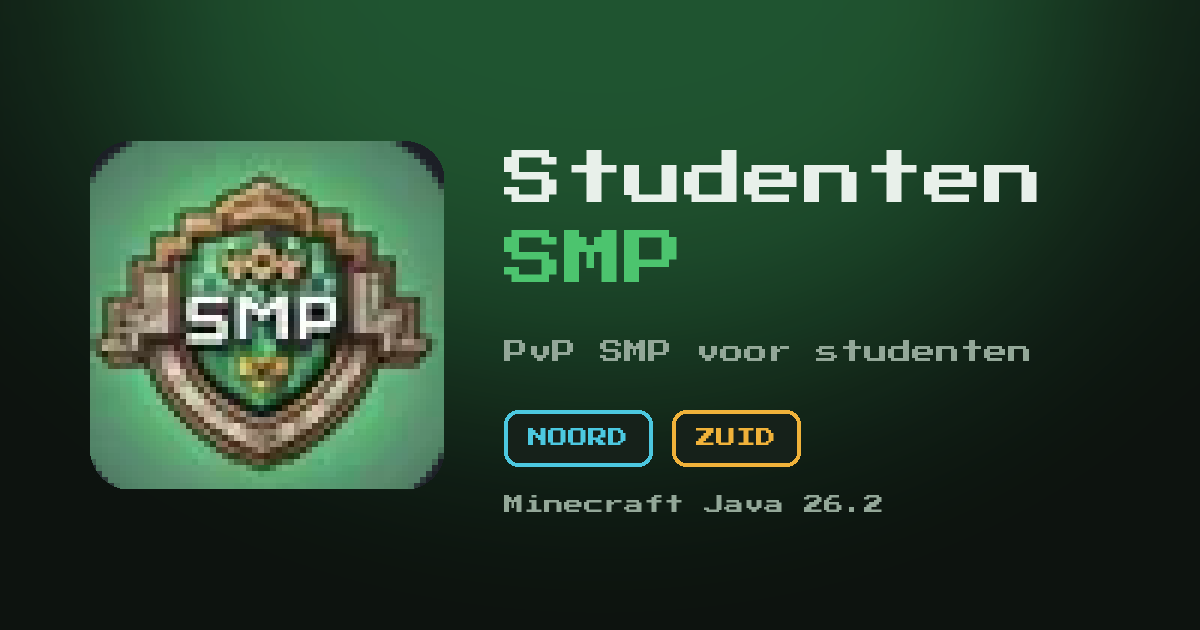
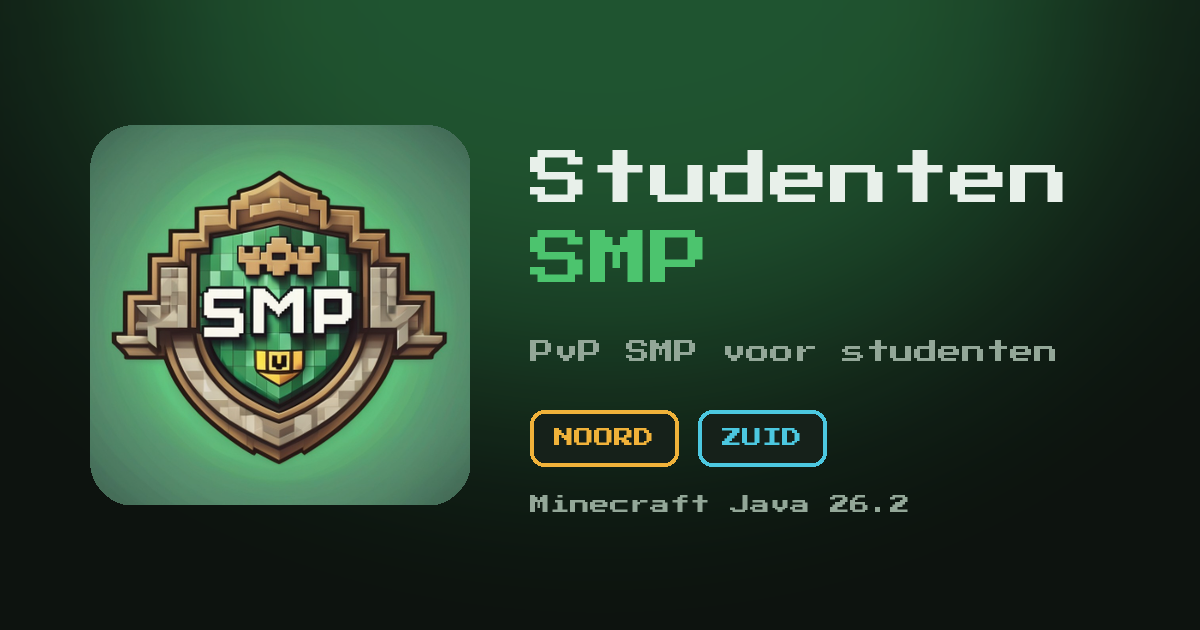
V3

Changed region(s): [[0.0617, 0.181, 0.8942, 0.8143], [0.4008, 0.7841, 0.7708, 0.8143]]

diff --git a/index.html b/index.html
@@ -135,7 +135,8 @@
     <details><summary>Hoe worden de teams verdeeld?</summary><p>Dat gaat automatisch bij je eerste login. Je komt in Noord of Zuid en je spawnt op jouw eigen kant van de Muur.</p></details>
     <details><summary>Kan ik van team wisselen?</summary><p>Niet zelf. Vind je het echt nodig, vraag het dan aan een beheerder.</p></details>
     <details><summary>Wat betekent het rode kruis bij een speler?</summary><p>Een speler met een rood kruis en een doorgestreepte naam op de spelerspagina is dood en doet niet meer mee.</p></details>
-    <details><summary>Wat gebeurt er als ik dood ga?</summary><p>Dan gaat er een vuurwerkshow af in de kleur van jouw team. Voor hoe de dood precies werkt volg je de uitleg van de beheerders.</p></details>
+    <details><summary>Hoe werken de levens?</summary><p>De eerste dag of twee kun je oneindig doodgaan. Daarna heb je 3 levens. Elke keer dat je doodgaat, verlies je er één. Op je laatste leven zit je in hardcore: ga je dan nog een keer dood, dan ben je eruit en kijk je verder mee als toeschouwer.</p></details>
+    <details><summary>Wat gebeurt er als ik dood ga?</summary><p>Dan gaat er een vuurwerkshow af in de kleur van jouw team. Na de eerste dagen kost het je ook een leven.</p></details>
     <details><summary>Wanneer gaan Nether en End open?</summary><p>Na de eerste paar dagen. We kondigen het aan zodra het zover is.</p></details>
     <details><summary>Wat is de Muur?</summary><p>Een enorme muur die de teams scheidt, met één ontmoetingspoort en twee doolhoven. Of en wanneer die opengaan, bepalen de beheerders.</p></details>
     <details><summary>Welke items zijn verboden?</summary><p>Maces, heavy cores en speren. Die worden automatisch van je afgepakt.</p></details>

diff --git a/style-v2.css b/style-v2.css
@@ -1,7 +1,7 @@
   :root {
     --bg: #0d130f; --bg2: #121a14; --card: #16211a; --line: #243528;
     --text: #e8f0ea; --muted: #93a798;
-    --green: #4cc46e; --green-d: #2f9e4f; --noord: #4cc8e0; --zuid: #f0b23a; --red: #e0645a;
+    --green: #4cc46e; --green-d: #2f9e4f; --noord: #f0b23a; --zuid: #4cc8e0; --red: #e0645a;
     --pixel: "Press Start 2P", ui-monospace, Menlo, Consolas, monospace;
     color-scheme: dark;
   }
